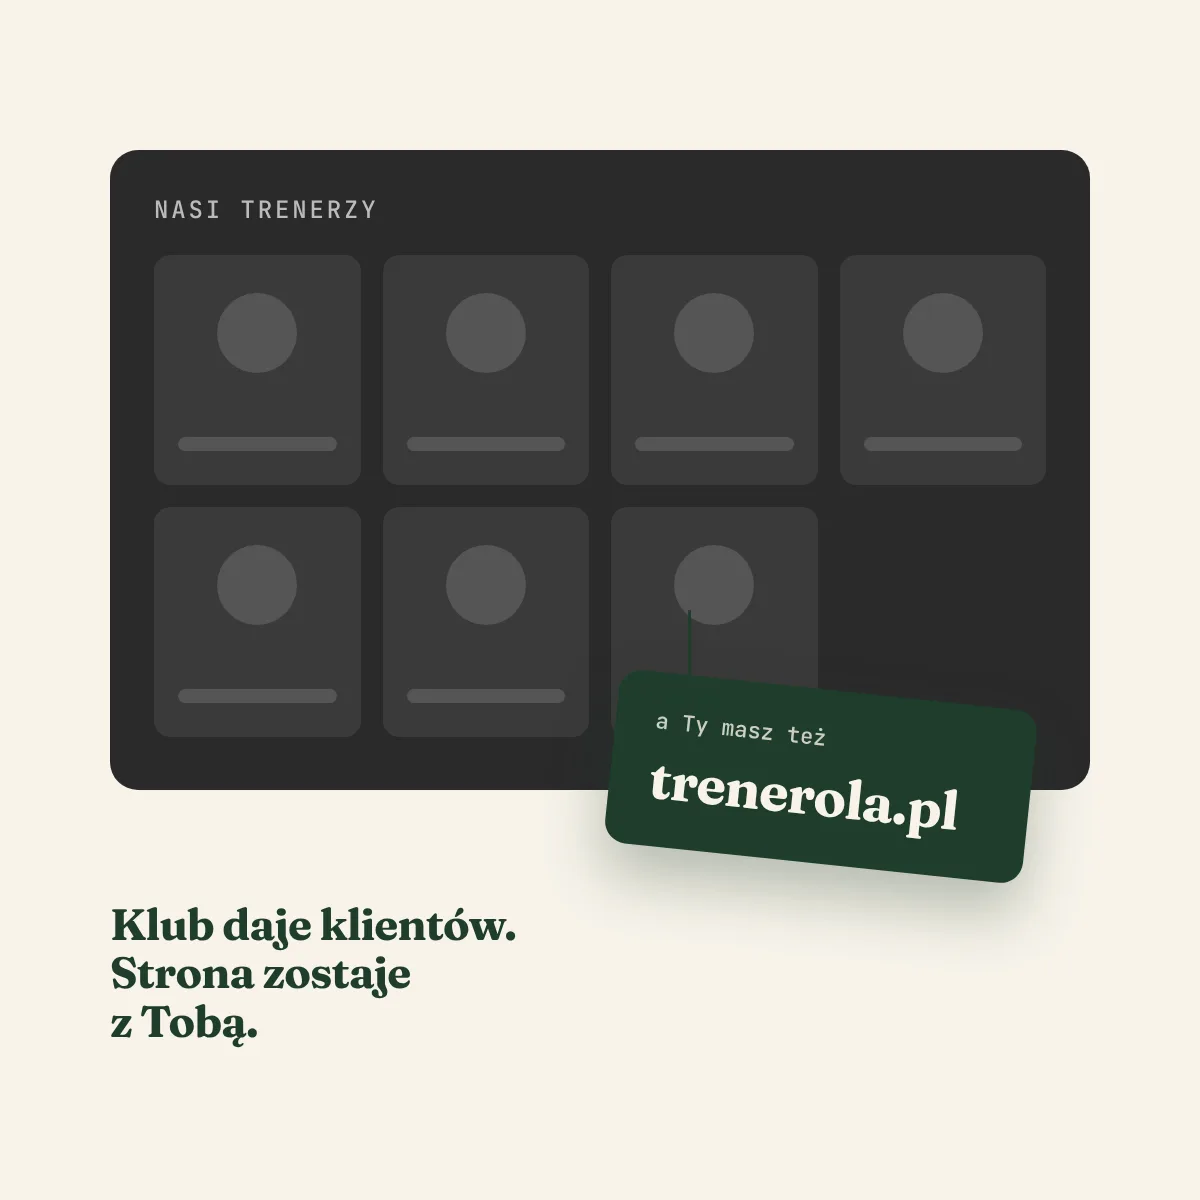
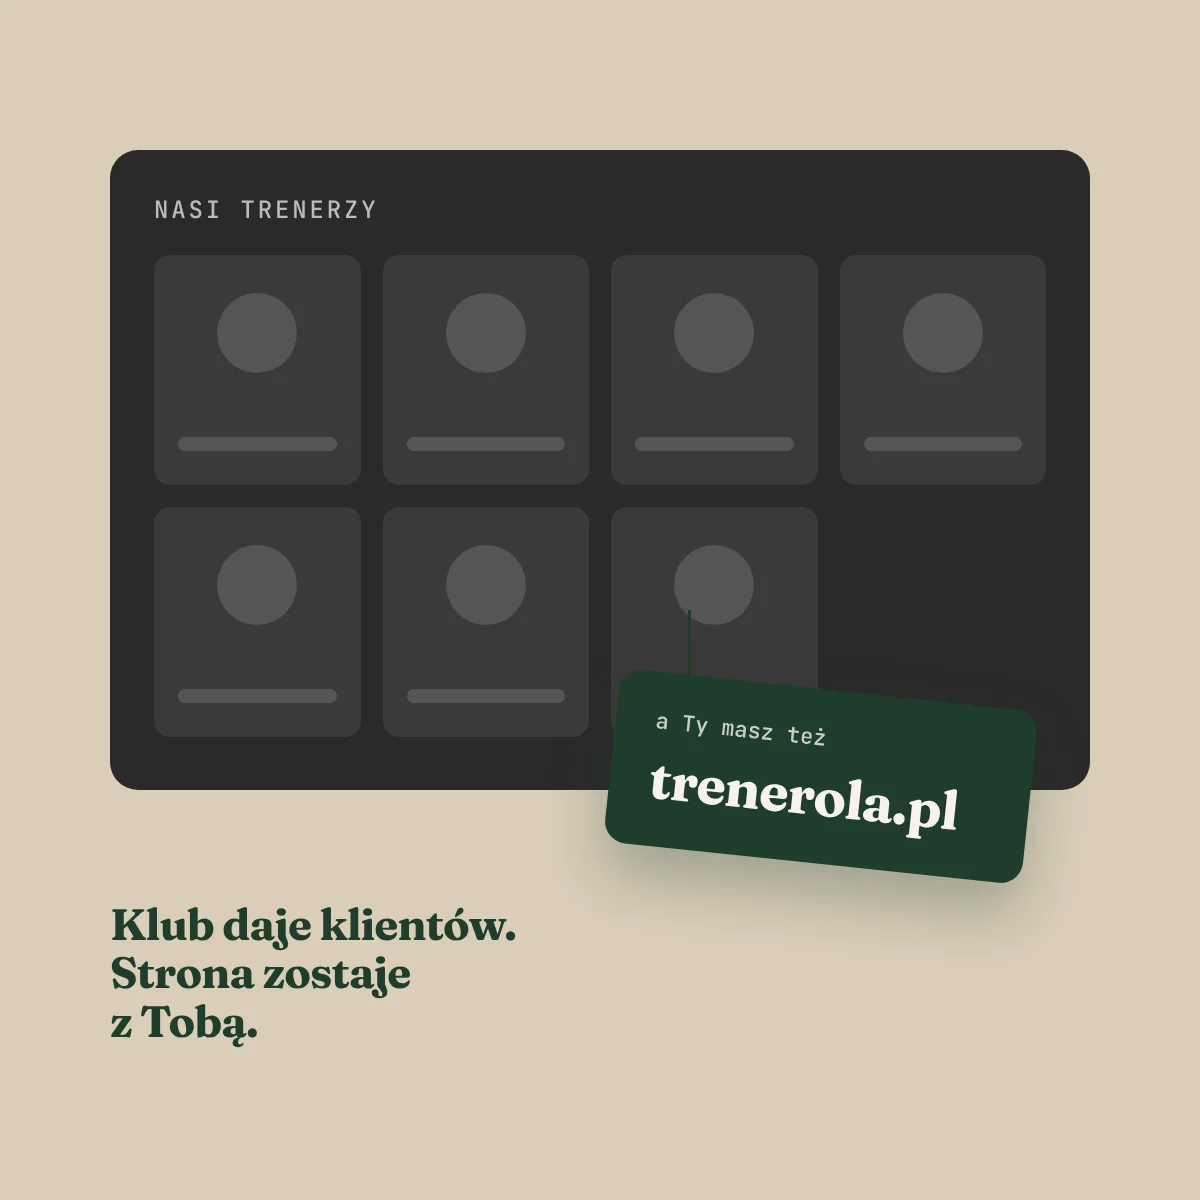
Bez sekcji atutów, wstęp artykułów, nowa okładka

diff --git a/artykuly.html b/artykuly.html
@@ -16,7 +16,7 @@
   <meta name="viewport" content="width=device-width, initial-scale=1.0">
   <meta name="color-scheme" content="light">
   <title>Artykuły: FitPage</title>
-  <meta name="description" content="Praktyczne teksty dla trenerów personalnych: jak wyróżnić się na rynku, zdobywać klientów bez reklam i budować markę osobistą oraz stronę internetową.">
+  <meta name="description" content="Praktyczne teksty dla trenerów, instruktorów i dietetyków: jak wyróżnić się na rynku, zdobywać klientów bez reklam i budować markę osobistą oraz stronę internetową.">
   <link rel="canonical" href="https://fitpage.pl/artykuly.html">
   <link rel="icon" type="image/png" sizes="32x32" href="images/favicon-32.png">
   <link rel="icon" type="image/png" sizes="512x512" href="images/favicon-512.png">
@@ -29,7 +29,7 @@
   <meta property="og:locale" content="pl_PL">
   <meta property="og:site_name" content="FitPage">
   <meta property="og:title" content="Artykuły: FitPage">
-  <meta property="og:description" content="Praktyczne teksty dla trenerów personalnych: jak wyróżnić się na rynku, zdobywać klientów bez reklam i budować markę osobistą oraz stronę internetową.">
+  <meta property="og:description" content="Praktyczne teksty dla trenerów, instruktorów i dietetyków: jak wyróżnić się na rynku, zdobywać klientów bez reklam i budować markę osobistą oraz stronę internetową.">
   <meta property="og:url" content="https://fitpage.pl/artykuly.html">
   <meta property="og:image" content="https://fitpage.pl/images/og-image.png">
   <meta property="og:image:width" content="1200">
@@ -37,14 +37,14 @@
   <meta property="og:image:alt" content="FitPage: strony internetowe dla trenerów personalnych">
   <meta name="twitter:card" content="summary_large_image">
   <meta name="twitter:title" content="Artykuły: FitPage">
-  <meta name="twitter:description" content="Praktyczne teksty dla trenerów personalnych: jak wyróżnić się na rynku, zdobywać klientów bez reklam i budować markę osobistą oraz stronę internetową.">
+  <meta name="twitter:description" content="Praktyczne teksty dla trenerów, instruktorów i dietetyków: jak wyróżnić się na rynku, zdobywać klientów bez reklam i budować markę osobistą oraz stronę internetową.">
   <meta name="twitter:image" content="https://fitpage.pl/images/og-image.png">
   <script type="application/ld+json">
   {
     "@context": "https://schema.org",
     "@type": "CollectionPage",
     "name": "Artykuły",
-    "description": "Praktyczne teksty dla trenerów personalnych: jak wyróżnić się na rynku, zdobywać klientów bez reklam i budować markę osobistą oraz stronę internetową.",
+    "description": "Praktyczne teksty dla trenerów, instruktorów i dietetyków: jak wyróżnić się na rynku, zdobywać klientów bez reklam i budować markę osobistą oraz stronę internetową.",
     "url": "https://fitpage.pl/artykuly.html",
     "inLanguage": "pl-PL",
     "mainEntity": {
@@ -180,7 +180,7 @@
       <div class="hero__inner">
         <h1 class="hero__title reveal">Artykuły</h1>
         <p class="hero__subtitle reveal">
-          Praktyczne teksty dla trenerów personalnych: o stronach internetowych,
+          Praktyczne teksty dla trenerów, instruktorów i dietetyków: o stronach internetowych,
           pozyskiwaniu klientów i budowaniu marki.
         </p>
       </div>

diff --git a/index.html b/index.html
@@ -159,54 +159,6 @@
       </div>
     </section>
 
-    <!-- ============================ ATUTY ============================ -->
-    <section class="atuty" aria-label="Dlaczego FitPage">
-      <div class="container">
-        <ul class="atuty__grid">
-
-          <li class="atuty__item reveal">
-            <span class="atuty__icon atuty__icon--accent">
-              <svg viewBox="0 0 24 24" fill="none" stroke="currentColor" stroke-width="2" stroke-linecap="round" stroke-linejoin="round" aria-hidden="true">
-                <rect x="3" y="5" width="18" height="12" rx="3"/>
-                <path d="M8 17v3l4-3"/>
-              </svg>
-            </span>
-            <p class="atuty__text">Bezpłatna konsultacja</p>
-          </li>
-
-          <li class="atuty__item reveal">
-            <span class="atuty__icon">
-              <svg viewBox="0 0 24 24" fill="none" stroke="currentColor" stroke-width="2" stroke-linecap="round" stroke-linejoin="round" aria-hidden="true">
-                <path d="M12 21s7-7.58 7-12a7 7 0 1 0-14 0c0 4.42 7 12 7 12Z"/>
-                <circle cx="12" cy="9" r="2.5"/>
-              </svg>
-            </span>
-            <p class="atuty__text">Cała Polska, zdalnie</p>
-          </li>
-
-          <li class="atuty__item reveal">
-            <span class="atuty__icon">
-              <svg viewBox="0 0 24 24" fill="none" stroke="currentColor" stroke-width="2" stroke-linecap="round" stroke-linejoin="round" aria-hidden="true">
-                <path d="M3 12a9 9 0 0 1 15.5-6.3M21 5v5h-5"/>
-                <path d="M21 12a9 9 0 0 1-15.5 6.3M3 19v-5h5"/>
-              </svg>
-            </span>
-            <p class="atuty__text">2 rundy poprawek projektu</p>
-          </li>
-
-          <li class="atuty__item reveal">
-            <span class="atuty__icon">
-              <svg viewBox="0 0 24 24" fill="none" stroke="currentColor" stroke-width="2" stroke-linecap="round" stroke-linejoin="round" aria-hidden="true">
-                <path d="M2 12h20"/><path d="M5 8v8M3 9v6M19 8v8M21 9v6"/>
-              </svg>
-            </span>
-            <p class="atuty__text">Tylko branża sportowa i&nbsp;dietetyczna</p>
-          </li>
-
-        </ul>
-      </div>
-    </section>
-
     <!-- ============================ TRENINGI (pasek) ============================ -->
     <section class="trainings reveal" aria-label="Rodzaje treningów, dla których projektuję strony">
       <div class="trainings__track">
@@ -553,7 +505,7 @@
       <div class="container reveal">
         <h2 class="section__title reveal">Artykuły</h2>
         <p class="artykuly__intro reveal">
-          Praktyczne teksty dla trenerów personalnych: o stronach internetowych,
+          Praktyczne teksty dla trenerów, instruktorów i dietetyków: o stronach internetowych,
           pozyskiwaniu klientów i budowaniu marki.
         </p>
 

diff --git a/style.css b/style.css
@@ -703,53 +703,6 @@ summary:focus-visible {
   .trainings__item[aria-hidden="true"] { display: none; }
 }
 
-/* ============================== ATUTY ============================== */
-/* Pasek 4 atutów — bez panelu, jak wszystkie sekcje teraz. Odstęp od
-   sąsiadów przez sam padding, bez linii/obramowania. Zieleń punktowo:
-   tylko pierścień ikony „Bezpłatna konsultacja" jest akcentowy, reszta
-   neutralna (--text). */
-.atuty {
-  padding: 40px 0;
-}
-.atuty__grid {
-  list-style: none;
-  margin: 0;
-  padding: 0;
-  display: grid;
-  grid-template-columns: repeat(2, 1fr);
-  gap: 28px 20px;
-}
-.atuty__item {
-  display: flex;
-  flex-direction: column;
-  align-items: center;
-  gap: 12px;
-  text-align: center;
-}
-.atuty__icon {
-  display: flex;
-  align-items: center;
-  justify-content: center;
-  width: 44px;
-  height: 44px;
-  flex-shrink: 0;
-  border-radius: 50%;
-  border: 1px solid var(--border);
-  color: var(--text);
-}
-.atuty__icon svg { width: 22px; height: 22px; }
-.atuty__icon--accent {
-  border-color: var(--accent);
-  color: var(--accent);
-}
-.atuty__text {
-  margin: 0;
-  font-size: 0.9rem;
-  font-weight: 600;
-  line-height: 1.35;
-  color: var(--muted);
-}
-
 /* ============================== CTA (domykające) ============================== */
 /* Ostatnia sekcja przed stopką — Atuty (najsilniejszy blok zaufania na
    stronie) dotąd wpadały prosto w ciemną stopkę bez żadnego wezwania do
@@ -2329,7 +2282,6 @@ summary:focus-visible {
   .section { padding: 56px 0; }
   .section__title { font-size: 2rem; }
   .kroki__grid { grid-template-columns: repeat(3, 1fr); }
-  .atuty__grid { grid-template-columns: repeat(4, 1fr); }
 }
 
 /* --- >= 900px --- */
@@ -2376,7 +2328,6 @@ summary:focus-visible {
   .section { padding: 12px 0; }
   .section > .container { padding-top: 16px; padding-bottom: 16px; }
   .hero { padding: 48px 20px 32px; }
-  .atuty { padding: 24px 0 32px; }
   .co-dostajesz__grid { gap: 28px; }
   .co-dostajesz__mockup { max-width: 180px; }
   .co-dostajesz__mockup figcaption { margin-top: 12px; font-size: 0.875rem; }
